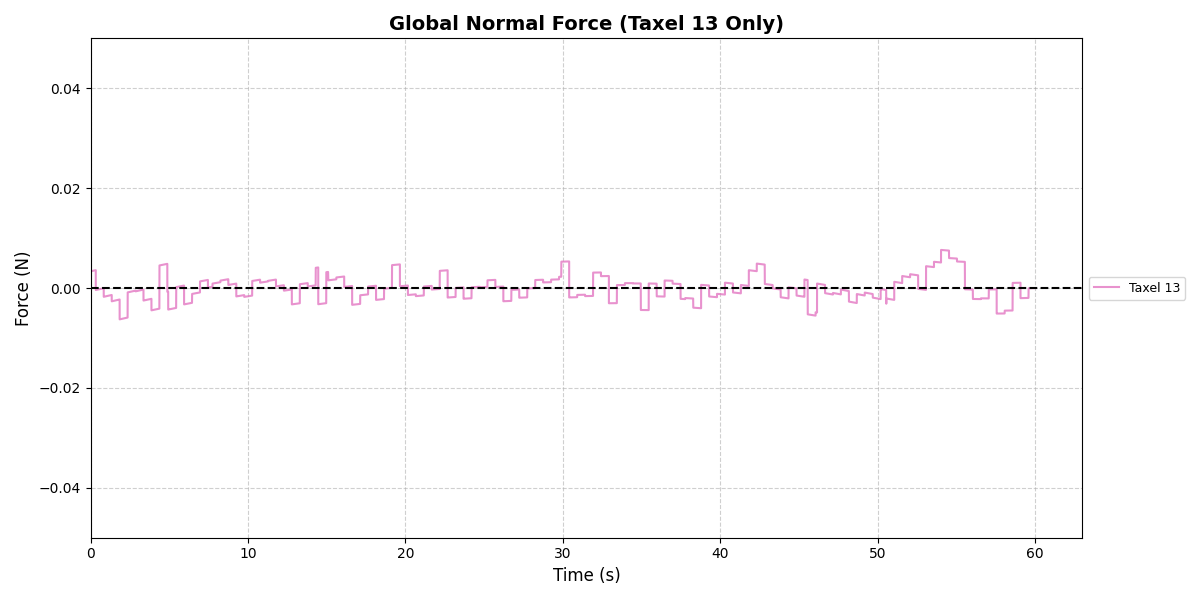
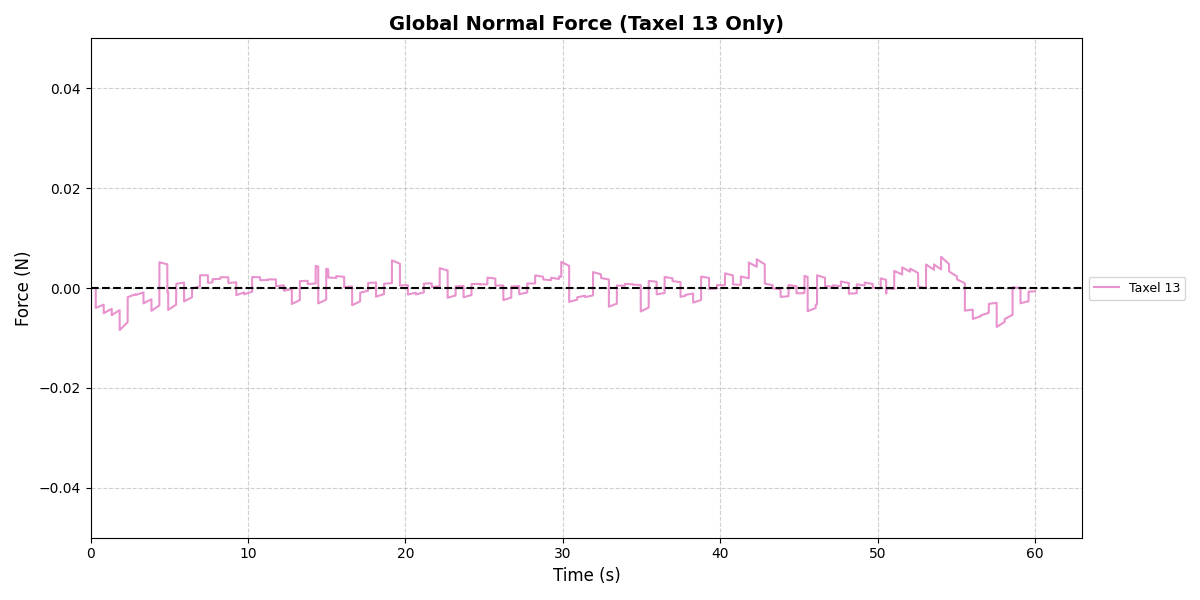
added the study of the contact phase

diff --git a/experiments/normal_force_analysis.py b/experiments/normal_force_analysis.py
@@ -11,6 +11,7 @@ parent_dir = os.path.dirname(current_dir)
 sys.path.append(parent_dir)
 from utility.zeroing import calculate_tare_csv
 from utility.deviation_menagment import apply_deviation_management
+from utility.contact_visualization import load_contact_windows, add_contact_overlays
 
 
 
@@ -53,7 +54,7 @@ def load_and_process_data(csv_path):
 
 
 
-def create_grid_plot(time_data, z_data_all, y_label, xmin=None, xmax=None, ymin=None, ymax=None, selected_taxel=None):
+def create_grid_plot(time_data, z_data_all, y_label, xmin=None, xmax=None, ymin=None, ymax=None, threshold=None, df_contacts=None, selected_taxel=None):
     """Genera e restituisce la Figura e gli Assi per la griglia 4x4 (o cella singola)."""
     # Se è selezionato un taxel specifico, riduciamo la griglia a 1x1 invece di 4x4
     if selected_taxel is not None:
@@ -65,10 +66,21 @@ def create_grid_plot(time_data, z_data_all, y_label, xmin=None, xmax=None, ymin=
         ax.set_title(f'Taxel {selected_taxel} (Individual Analysis)', fontsize=16)
         ax.grid(True, linestyle='--', alpha=0.6)
         ax.axhline(0, color='black', linewidth=0.8, linestyle='--')
+
+        # Disegna la linea di threshold se definita
+        if threshold is not None:
+            ax.axhline(threshold, color='black', linewidth=2.0, linestyle='--', zorder=4, label=f'Threshold ({threshold})')
+            ax.axhline(-threshold, color='black', linewidth=2.0, linestyle='--', zorder=4)
+            ax.legend(loc='upper right')
+
         ax.set(xlabel='Time (s)', ylabel=y_label)
         
         if xmin is not None or xmax is not None: ax.set_xlim(left=xmin, right=xmax)
         if ymin is not None or ymax is not None: ax.set_ylim(bottom=ymin, top=ymax)
+
+        # APPLICAZIONE OVERLAY CONTATTI
+        if add_contact_overlays and df_contacts is not None:
+            add_contact_overlays(ax, df_contacts)
         
         fig.tight_layout()
         return fig, axes
@@ -86,6 +98,16 @@ def create_grid_plot(time_data, z_data_all, y_label, xmin=None, xmax=None, ymin=
         ax.grid(True, linestyle='--', alpha=0.6)
         ax.axhline(0, color='black', linewidth=0.8, linestyle='--')
 
+        # Disegna la linea di threshold se definita
+        if threshold is not None:
+            ax.axhline(threshold, color='black', linewidth=2.0, linestyle='--', zorder=4, label=f'Threshold +/-({threshold})')
+            ax.axhline(-threshold, color='black', linewidth=2.0, linestyle='--', zorder=4)
+            ax.legend(loc='upper right')
+
+        # APPLICAZIONE OVERLAY CONTATTI
+        if add_contact_overlays and df_contacts is not None:
+            add_contact_overlays(ax, df_contacts)
+
     for ax in axes.flat:
         ax.set(xlabel='Time (s)', ylabel=y_label)
         if xmin is not None or xmax is not None: ax.set_xlim(left=xmin, right=xmax)
@@ -99,7 +121,7 @@ def create_grid_plot(time_data, z_data_all, y_label, xmin=None, xmax=None, ymin=
 
 
 
-def create_global_plot(time_data, z_data_all, y_label, xmin=None, xmax=None, ymin=None, ymax=None, selected_taxel=None):
+def create_global_plot(time_data, z_data_all, y_label, xmin=None, xmax=None, ymin=None, ymax=None, threshold=None, df_contacts=None, selected_taxel=None):
     """Genera e restituisce la Figura e l'Asse per il grafico globale sovrapposto."""
     fig, ax = plt.subplots(figsize=(12, 6))
     colors = plt.cm.tab20.colors 
@@ -111,6 +133,13 @@ def create_global_plot(time_data, z_data_all, y_label, xmin=None, xmax=None, ymi
         ax.plot(time_data, z_data_all[i], label=f'Taxel {i}', color=colors[(i-1)%20], linewidth=1.5, alpha=0.8)
 
     ax.axhline(0, color='black', linewidth=1.5, linestyle='--')
+
+    # Disegna la linea di threshold se definita
+    if threshold is not None:
+        ax.axhline(threshold, color='black', linewidth=2.0, linestyle='--', zorder=4, label=f'Threshold ({threshold})')
+        ax.axhline(-threshold, color='black', linewidth=2.0, linestyle='--', zorder=4)
+        ax.legend(loc='upper right')
+
     title_suffix = f' (Taxel {selected_taxel} Only)' if selected_taxel is not None else ' (All Channels Overlaid)'
     ax.set_title('Global Normal Force' + title_suffix, fontsize=14, fontweight='bold')
     ax.set_xlabel('Time (s)', fontsize=12)
@@ -119,6 +148,10 @@ def create_global_plot(time_data, z_data_all, y_label, xmin=None, xmax=None, ymi
 
     if xmin is not None or xmax is not None: ax.set_xlim(left=xmin, right=xmax)
     if ymin is not None or ymax is not None: ax.set_ylim(bottom=ymin, top=ymax)
+
+    # APPLICAZIONE OVERLAY CONTATTI
+    if add_contact_overlays and df_contacts is not None:
+        add_contact_overlays(ax, df_contacts)
 
     ax.legend(loc='center left', bbox_to_anchor=(1, 0.5), fontsize=9)
     fig.tight_layout()
@@ -139,6 +172,12 @@ if __name__ == "__main__":
     parser.add_argument("--xmax", type=float, default=None)
     parser.add_argument("--ymin", type=float, default=-0.050)
     parser.add_argument("--ymax", type=float, default=0.050)
+
+    parser.add_argument("--threshold", type=float, default=0.012,
+                        help="Valore di soglia da disegnare come linea orizzontale tratteggiata. Se non specificato, non viene disegnato.")
+
+    parser.add_argument("--show-contacts", action="store_true", default=True,
+                        help="Mostra le finestre temporali di contatto come bande verdi sullo sfondo.")
     
     # NUOVO: Selezione del singolo Taxel da studiare
     parser.add_argument("--taxel", type=int, default=None, choices=range(1, 17),
@@ -147,7 +186,7 @@ if __name__ == "__main__":
     # NUOVO: Parametri per la gestione delle deviazioni
     parser.add_argument("--correct-drift", action="store_true", 
                         help="Attiva la correzione e rimozione della deriva del segnale.")
-    parser.add_argument("--drift-method", type=str, default="poly", choices=["poly", "highpass"],
+    parser.add_argument("--drift-method", type=str, default="highpass", choices=["poly", "highpass"],
                         help="Metodo di correzione: 'poly' (polinomiale) o 'highpass' (filtro passa-alto).")
     parser.add_argument("--poly-deg", type=int, default=2, 
                         help="Grado del polinomio per il metodo 'poly' (default: 2).")
@@ -157,6 +196,10 @@ if __name__ == "__main__":
     csv_path = os.path.join(args.folder, args.filename)
     time_data, z_data_all, y_label = load_and_process_data(csv_path)
 
+    df_contacts = None
+    if args.show_contacts and load_contact_windows is not None:
+        df_contacts = load_contact_windows(args.folder, "contacts_windows.csv")
+
     # APPLICAZIONE MODULARE DEL DETRENDING
     if args.correct_drift and apply_deviation_management is not None:
         print(f"Applying drift correction using method: {args.drift_method}...")
@@ -165,17 +208,17 @@ if __name__ == "__main__":
             z_data_all, 
             method=args.drift_method, 
             deg=args.poly_deg,
-            cutoff_hz=0.01, # Eventualmente parametrizzabile da CLI
+            cutoff_hz=0.005, # Eventualmente parametrizzabile da CLI
             fs=133.0        # Assumi frequenza sensore
         )
 
     # Generazione dei plot (passando l'eventuale taxel singolo selezionato)
     if not args.taxel:
-        fig1, axes1 = create_grid_plot(time_data, z_data_all, y_label, args.xmin, args.xmax, args.ymin, args.ymax, selected_taxel=args.taxel)
+        fig1, axes1 = create_grid_plot(time_data, z_data_all, y_label, args.xmin, args.xmax, args.ymin, args.ymax, threshold=args.threshold, df_contacts=df_contacts, selected_taxel=args.taxel)
         win_title_grid = f'Taxel {args.taxel} Analysis' if args.taxel else '16 Channel Grid'
         fig1.canvas.manager.set_window_title(win_title_grid)
 
-    fig2, ax_main = create_global_plot(time_data, z_data_all, y_label, args.xmin, args.xmax, args.ymin, args.ymax, selected_taxel=args.taxel)
+    fig2, ax_main = create_global_plot(time_data, z_data_all, y_label, args.xmin, args.xmax, args.ymin, args.ymax, threshold=args.threshold, df_contacts=df_contacts, selected_taxel=args.taxel)
     win_title_global = f'Taxel {args.taxel} Overlaid' if args.taxel else 'Overlaid Channels'
     fig2.canvas.manager.set_window_title(win_title_global)
 

diff --git a/utility/contact_visualization.py b/utility/contact_visualization.py
@@ -1,0 +1,52 @@
+import pandas as pd
+import os
+import sys
+
+def load_contact_windows(folder_path, filename="contacts_windows.csv"):
+    """
+    Carica il file CSV contenente i lassi di tempo dei contatti.
+    """
+    csv_path = os.path.join(folder_path, filename)
+    if not os.path.exists(csv_path):
+        print(f"Warning: Contact windows file not found at {csv_path}. Skipping visualization.")
+        return None
+    
+    try:
+        df = pd.read_csv(csv_path)
+        # Rimuove spazi bianchi nei nomi delle colonne
+        df.columns = df.columns.str.strip()
+        return df
+    except Exception as e:
+        print(f"Error loading contact windows: {e}")
+        return None
+
+def add_contact_overlays(ax, df_contacts, ymin_text=None):
+    """
+    Disegna le bande verdi verticali sullo sfondo dell'asse (ax) fornito
+    e aggiunge l'ID del contatto in alto a sinistra di ogni colonna.
+    """
+    if df_contacts is None or df_contacts.empty:
+        return
+
+    # Determina la coordinata Y per il testo (in alto nell'asse)
+    # Usiamo le coordinate dei dati se disponibili, altrimenti ci affidiamo alle coordinate trasformate
+    ylim = ax.get_ylim()
+    # Posiziona il testo al 92% dell'altezza massima visibile nel grafico
+    y_pos = ylim[1] - (ylim[1] - ylim[0]) * 0.08
+
+    for _, row in df_contacts.iterrows():
+        c_id = int(row['Contact ID'])
+        start = float(row['Start Time'])
+        end = float(row['End Time'])
+        
+        # Disegna la banda verde sullo sfondo (zorder=0 la mette dietro i dati del segnale)
+        ax.axvspan(start, end, color='#d4edda', alpha=0.5, zorder=0, label='_nolegend_')
+        
+        # Aggiunge il numero del contatto in alto a sinistra della colonna verde
+        # Un piccolo offset (start + 0.1) evita che il testo sia attaccato al bordo della linea
+        ax.text(start + 0.1, y_pos, f"C{c_id}", 
+                color='#155724', 
+                fontsize=10, 
+                fontweight='bold',
+                verticalalignment='top',
+                zorder=5)

diff --git a/utility/deviation_menagment.py b/utility/deviation_menagment.py
@@ -20,16 +20,20 @@ def remove_drift_polynomial(time_data, z_data, deg=2):
 
 def remove_drift_highpass(time_data, z_data, cutoff_hz=0.01, fs=133.0):
     """
-    Rimuove la deriva usando un filtro Butterworth passa-alto.
-    Ideale se si conosce la frequenza di campionamento (fs).
+    Rimuove la deriva usando un filtro Butterworth passa-alto CAUSALE.
+    Simula esattamente il comportamento del filtro applicato in tempo reale (real-time).
     """
-    # Configurazione del filtro (ordine 2 per evitare eccessive distorsioni di fase)
+    # Configurazione del filtro (ordine 2)
     nyquist = 0.5 * fs
     normal_cutoff = cutoff_hz / nyquist
     b, a = signal.butter(2, normal_cutoff, btype='high', analog=False)
     
-    # Applica il filtro in avanti e indietro (zero-phase filtering)
-    corrected_data = signal.filtfilt(b, a, z_data)
+    # Inizializziamo lo stato del filtro a zero (come all'accensione del sensore)
+    zi = signal.lfilter_zi(b, a) * 0.0
+    
+    # lfilter applica il filtro in modo causale (solo in avanti) sfruttando lo stato zi
+    corrected_data, _ = signal.lfilter(b, a, z_data, zi=zi)
+    
     return corrected_data
 
 def apply_deviation_management(time_data, z_data_all, method='poly', **kwargs):
